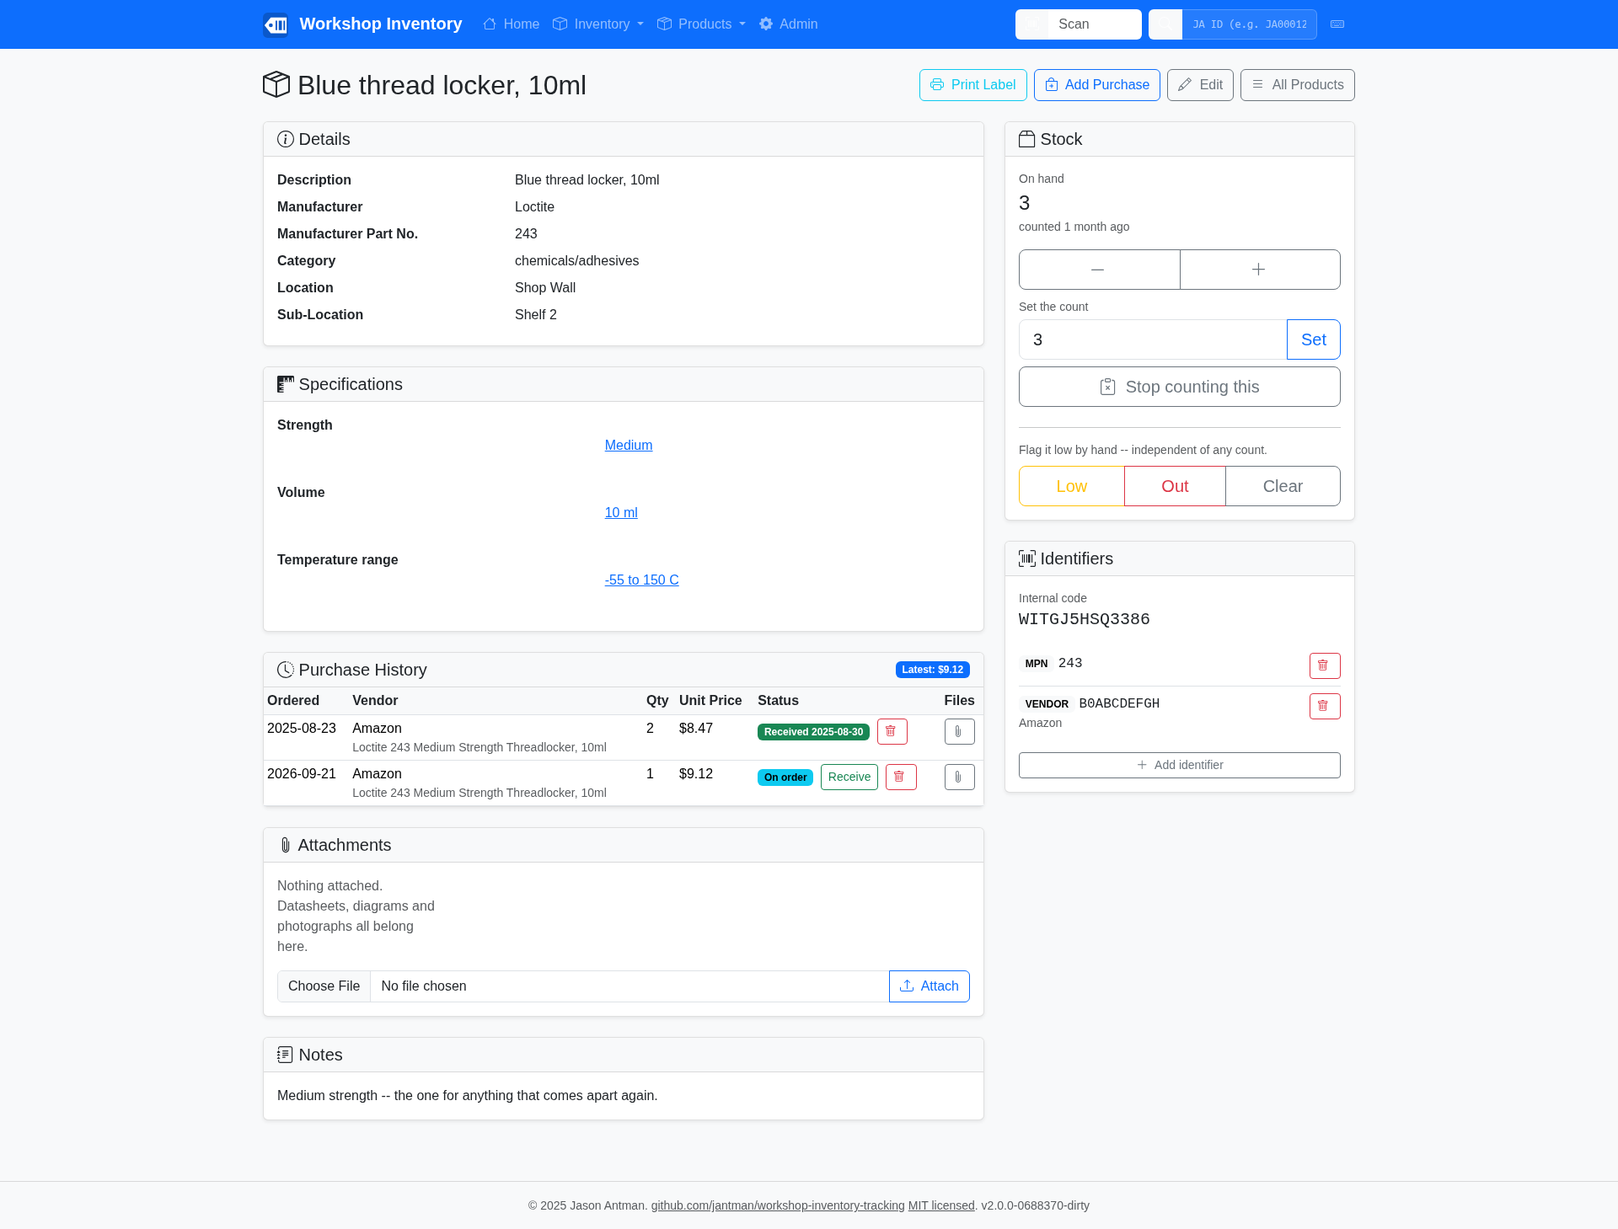
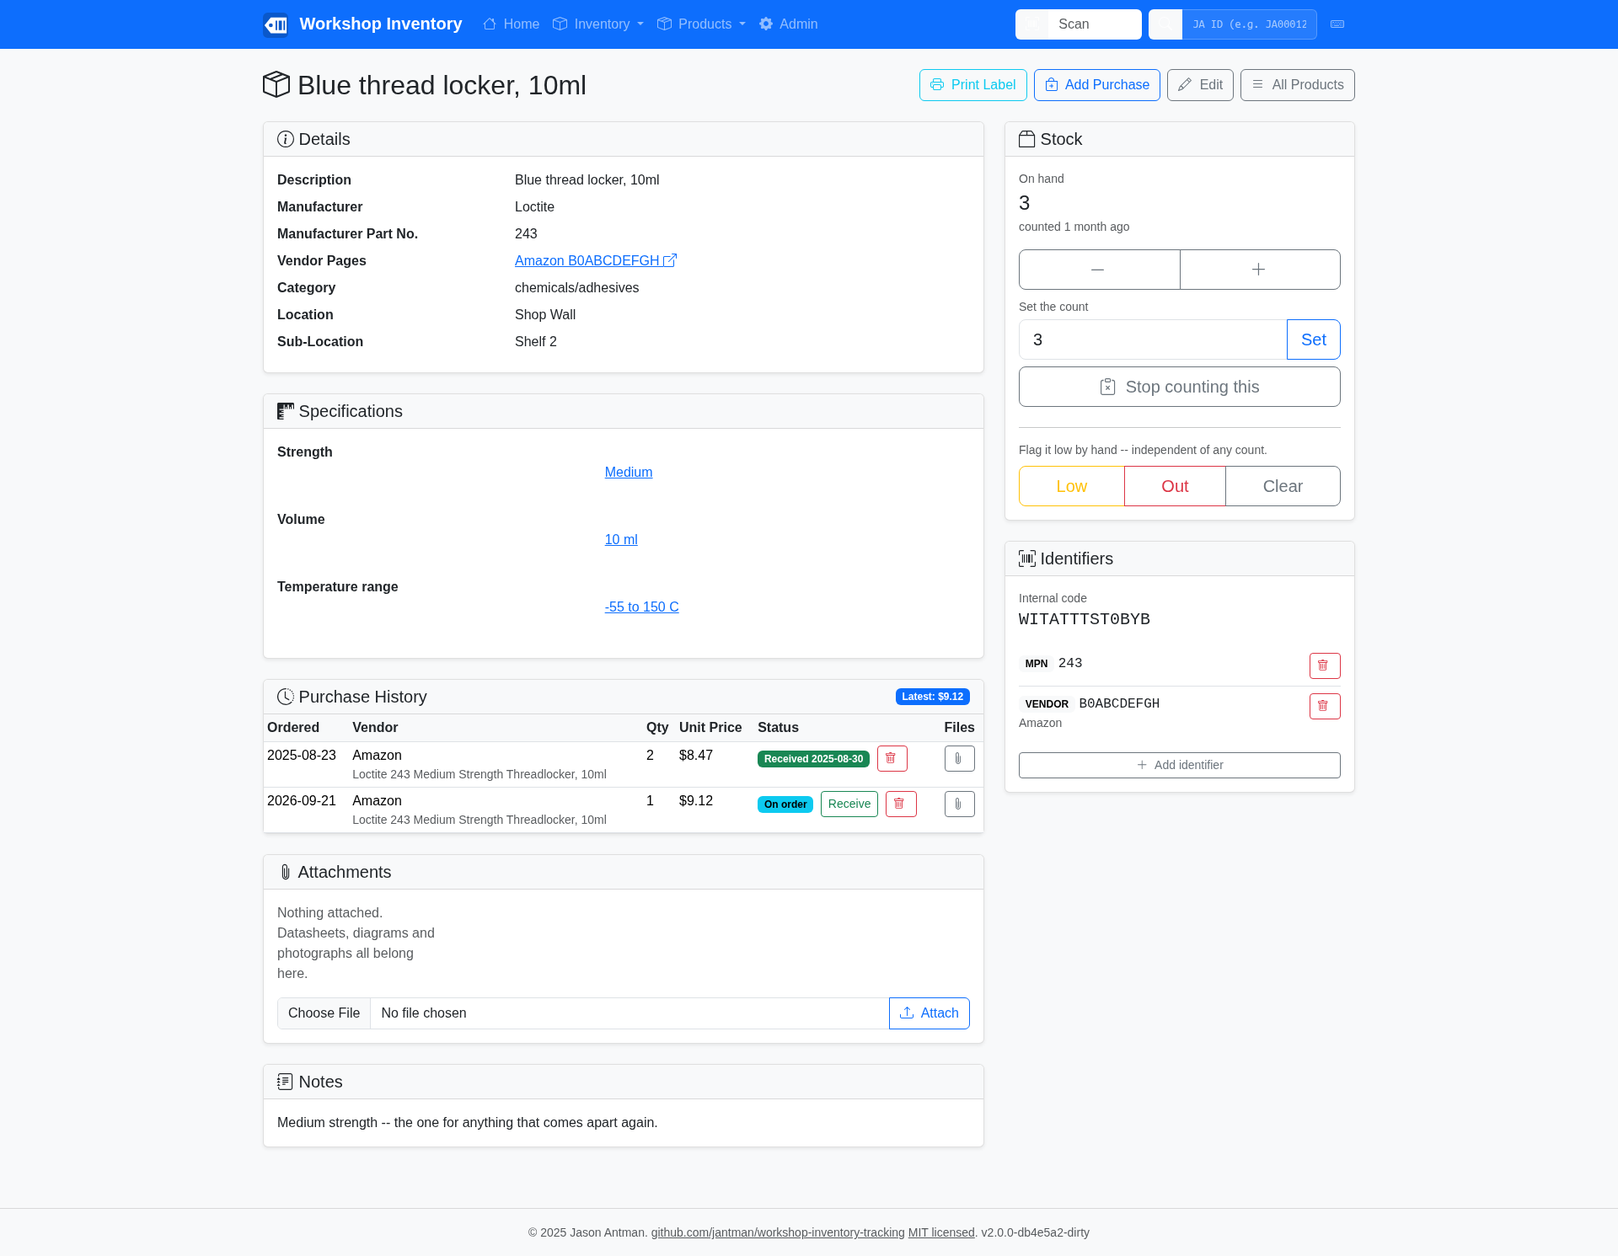
feat(054): link products to their vendor pages from the Details panel (#180)
The product page's Details panel gains a Vendor Pages row: one link per
Amazon, McMaster-Carr or DigiKey identifier the product carries, opening
in a new tab. Amazon and McMaster reuse the listing-address builders the
order flows already had; DigiKey links to its keyword search, which
redirects to the part, because its product address is never stored.

Either vendor-scoped identifier type links. McMaster part numbers were
VENDOR rows before 049 and DISTRIBUTOR since, and a DigiKey part captured
from its product page is VENDOR -- keying on the issue's types alone would
silently skip real products. The same value under both is one link.

Identifier values are now percent-encoded in all three builders, so a
hand-typed '/', '#' or space cannot send a link to the wrong page. Real
ASINs and part numbers are unchanged by it.

DigiKey's builder is deliberately not registered as the order vendor's
listing_url: that field's presence switches on the 044 details checklist.

Claude-Session: https://claude.ai/code/session_019doEcjtmYF93C6NDoHYRft

diff --git a/app/templates/product/detail.html b/app/templates/product/detail.html
@@ -82,6 +82,17 @@
                     <dd class="col-sm-8" id="product-mpn">{{ product.manufacturer_part_number }}</dd>
                     {% endif %}
 
+                    {% if vendor_links %}
+                    <dt class="col-sm-4">Vendor Pages</dt>
+                    <dd class="col-sm-8" id="product-vendor-links">
+                        {% for vendor, value, url in vendor_links %}
+                        <a class="vendor-link me-3 text-nowrap" href="{{ url }}" target="_blank"
+                           rel="noopener" data-vendor="{{ vendor }}">{{ vendor }} {{ value }}
+                            <i class="bi bi-box-arrow-up-right"></i></a>
+                        {% endfor %}
+                    </dd>
+                    {% endif %}
+
                     {% if product.category_path %}
                     <dt class="col-sm-4">Category</dt>
                     <dd class="col-sm-8" id="product-category">{{ product.category_path }}</dd>

diff --git a/tests/unit/test_vendor_page_links.py b/tests/unit/test_vendor_page_links.py
@@ -1,0 +1,119 @@
+"""
+Vendor links in the product page's Details panel (054, issue #180).
+
+``vendor_page_links`` turns a product's vendor-scoped identifiers into links to
+Amazon, McMaster-Carr and DigiKey; the product page renders them.
+"""
+
+from types import SimpleNamespace
+
+import pytest
+
+from app.catalog_service import CatalogService, vendor_page_links
+
+
+def ident(id_type, value, vendor=''):
+    return SimpleNamespace(id_type=id_type, value=value, vendor=vendor)
+
+
+@pytest.fixture
+def catalog(test_storage):
+    return CatalogService(test_storage)
+
+
+class TestVendorPageLinks:
+
+    @pytest.mark.parametrize('vendor, id_type, value, url', [
+        ('Amazon', 'VENDOR', 'B0EXAMPLE1', 'https://www.amazon.com/dp/B0EXAMPLE1'),
+        ('McMaster-Carr', 'DISTRIBUTOR', '91251A540', 'https://www.mcmaster.com/91251A540/'),
+        ('DigiKey', 'DISTRIBUTOR', '296-1395-5-ND',
+         'https://www.digikey.com/en/products/result?keywords=296-1395-5-ND'),
+    ])
+    def test_each_vendor_links_to_the_address_in_the_issue(self, vendor, id_type, value, url):
+        """FR-001, FR-002"""
+        assert vendor_page_links([ident(id_type, value, vendor)]) == [(vendor, value, url)]
+
+    @pytest.mark.parametrize('vendor', ['Amazon', 'McMaster-Carr', 'DigiKey'])
+    @pytest.mark.parametrize('id_type', ['VENDOR', 'DISTRIBUTOR'])
+    def test_either_vendor_scoped_type_links(self, vendor, id_type):
+        """FR-003: legacy McMaster rows are VENDOR; page-captured DigiKey rows are too."""
+        assert len(vendor_page_links([ident(id_type, 'X1', vendor)])) == 1
+
+    def test_one_value_under_both_types_is_one_link(self):
+        """FR-003"""
+        links = vendor_page_links([
+            ident('VENDOR', '91251A540', 'McMaster-Carr'),
+            ident('DISTRIBUTOR', '91251A540', 'McMaster-Carr'),
+        ])
+        assert links == [('McMaster-Carr', '91251A540', 'https://www.mcmaster.com/91251A540/')]
+
+    def test_the_value_is_encoded(self):
+        """FR-006: a '/', '#' or space must not re-route the address."""
+        [(_, _, amazon)] = vendor_page_links([ident('VENDOR', 'A/B#C D', 'Amazon')])
+        [(_, _, digikey)] = vendor_page_links([ident('DISTRIBUTOR', 'X&Y?Z', 'DigiKey')])
+
+        assert amazon == 'https://www.amazon.com/dp/A%2FB%23C%20D'
+        assert digikey == 'https://www.digikey.com/en/products/result?keywords=X%26Y%3FZ'
+
+    @pytest.mark.parametrize('identifier', [
+        ident('MPN', 'LM358N'),
+        ident('GTIN', '00012345678905'),
+        ident('VENDOR', '12345', 'Mouser'),
+        ident('DISTRIBUTOR', '296-1395-5-ND', 'Digi-Key'),
+        ident('INTERNAL', 'W0000000001'),
+    ])
+    def test_nothing_else_links(self, identifier):
+        """FR-007"""
+        assert vendor_page_links([identifier]) == []
+
+    def test_no_identifiers(self):
+        assert vendor_page_links([]) == []
+
+    def test_several_vendors_link_to_each_in_order(self):
+        """US2"""
+        links = vendor_page_links([
+            ident('DISTRIBUTOR', '91251A540', 'McMaster-Carr'),
+            ident('DISTRIBUTOR', '296-1395-5-ND', 'DigiKey'),
+        ])
+        assert [(vendor, value) for vendor, value, _ in links] == [
+            ('DigiKey', '296-1395-5-ND'),
+            ('McMaster-Carr', '91251A540'),
+        ]
+
+    def test_two_ids_for_one_vendor_are_two_links(self):
+        """US2, FR-004"""
+        links = vendor_page_links([
+            ident('VENDOR', 'B0SECOND02', 'Amazon'),
+            ident('VENDOR', 'B0FIRST001', 'Amazon'),
+        ])
+        assert [value for _, value, _ in links] == ['B0FIRST001', 'B0SECOND02']
+
+
+class TestProductPage:
+
+    def test_the_details_panel_links_to_the_vendor(self, catalog, client):
+        """FR-001, FR-005"""
+        product = catalog.create_product(
+            description='Threadlocker',
+            identifiers=[{'id_type': 'VENDOR', 'value': 'B0EXAMPLE1', 'vendor': 'Amazon'}],
+        )
+
+        html = client.get(f'/products/{product.id}').get_data(as_text=True)
+
+        assert 'id="product-vendor-links"' in html
+        assert 'href="https://www.amazon.com/dp/B0EXAMPLE1"' in html
+        assert 'target="_blank"' in html
+        assert 'rel="noopener" data-vendor="Amazon"' in html
+
+    def test_a_product_with_nothing_to_link_has_no_row(self, catalog, client):
+        """FR-007"""
+        product = catalog.create_product(
+            description='Op amp',
+            identifiers=[{'id_type': 'MPN', 'value': 'LM358N'}],
+        )
+
+        html = client.get(f'/products/{product.id}').get_data(as_text=True)
+
+        assert 'id="product-description"' in html
+        assert 'product-vendor-links' not in html
+        assert 'Vendor Pages' not in html

diff --git a/app/catalog_service.py b/app/catalog_service.py
@@ -16,7 +16,8 @@ from contextlib import contextmanager
 from dataclasses import replace
 from datetime import datetime, timedelta
 from decimal import Decimal, InvalidOperation
-from typing import Any, Dict, List, Optional, Set
+from typing import Any, Dict, Iterable, List, Optional, Set, Tuple
+from urllib.parse import quote
 
 from sqlalchemy import and_, case, create_engine, func, or_
 from sqlalchemy.orm import selectinload, sessionmaker
@@ -5340,7 +5341,7 @@ def _mcmaster_listing_url(part_number: str) -> str:
     That is why a McMaster order gets the details checklist but not Amazon's
     automatic per-line listing read (044 US4).
     """
-    return f'https://www.mcmaster.com/{part_number}/'
+    return f'https://www.mcmaster.com/{quote(part_number, safe="")}/'
 
 
 DIGIKEY_ORDER_VENDOR = order_vendors.register(order_vendors.OrderVendor(
@@ -5509,7 +5510,7 @@ def _amazon_listing_url(asin: str) -> str:
     purchase's ``listing_url`` is the *order* page (``_amazon_line_fields``), not
     the listing, and linking to it would send the operator to the wrong place.
     """
-    return f'https://www.amazon.com/dp/{asin}'
+    return f'https://www.amazon.com/dp/{quote(asin, safe="")}'
 
 
 AMAZON_ORDER_VENDOR = order_vendors.register(order_vendors.OrderVendor(
@@ -5541,3 +5542,46 @@ AMAZON_ORDER_VENDOR = order_vendors.register(order_vendors.OrderVendor(
     carries_payload=True,
     listing_url=_amazon_listing_url,
 ))
+
+
+def _digikey_search_url(part_number: str) -> str:
+    """DigiKey's keyword search for a part number, which redirects to the part's page.
+
+    Not registered as the DigiKey order vendor's ``listing_url``: that field's
+    presence puts the details checklist on the order screen (044 US3), and a
+    DigiKey order arrives with its details already filled in. DigiKey's own
+    product address is returned by its lookup but never stored, so the search is
+    what can be built from an identifier alone (054 research R4).
+    """
+    return f'https://www.digikey.com/en/products/result?keywords={quote(part_number, safe="")}'
+
+
+# The vendor page each supported vendor's item id leads to, for the product
+# page's Details panel (054). Keyed by the vendor names identifiers are filed
+# under; a legacy spelling such as 'Digi-Key' is deliberately not a key.
+VENDOR_PAGE_URLS = {
+    AMAZON_VENDOR: _amazon_listing_url,
+    MCMASTER_VENDOR: _mcmaster_listing_url,
+    DIGIKEY_VENDOR: _digikey_search_url,
+}
+
+
+def vendor_page_links(identifiers: Iterable[ProductIdentifier]) -> List[Tuple[str, str, str]]:
+    """``(vendor, value, url)`` for each supported vendor item id a product carries.
+
+    **Either vendor-scoped type counts.** McMaster part numbers were recorded as
+    ``VENDOR`` before 049 and ``DISTRIBUTOR`` since, and a DigiKey part captured
+    from its product page is ``VENDOR`` while one from an order is
+    ``DISTRIBUTOR``. The vendor scope says whose id it is; the type does not, so
+    the same value under both types is one link, not two.
+    """
+    scoped = {id_type.value for id_type in VENDOR_SCOPED_TYPES}
+    links = {
+        (identifier.vendor, identifier.value)
+        for identifier in identifiers
+        if identifier.id_type in scoped and identifier.vendor in VENDOR_PAGE_URLS
+    }
+    return [
+        (vendor, value, VENDOR_PAGE_URLS[vendor](value))
+        for vendor, value in sorted(links)
+    ]

diff --git a/tests/e2e/test_product_vendor_links.py b/tests/e2e/test_product_vendor_links.py
@@ -1,0 +1,55 @@
+"""E2E: vendor links in the product page's Details panel (feature 054, issue #180).
+
+The page is server-rendered, so ``expect()`` on the Details panel is the whole
+wait. Products are seeded through the service; the form is not under test.
+"""
+
+import pytest
+from playwright.sync_api import expect
+
+
+@pytest.mark.e2e
+def test_the_details_panel_links_to_each_vendor(page, live_server):
+    """US1, US2: one link per vendor, opening in a new tab.
+
+    McMaster's part number is seeded as VENDOR, the type captures wrote before
+    049, so the legacy shape is what is proved to link.
+    """
+    [product] = live_server.add_test_products([{
+        'description': 'Socket head cap screw, M3 x 10',
+        'identifiers': [
+            {'id_type': 'VENDOR', 'value': 'B0EXAMPLE1', 'vendor': 'Amazon'},
+            {'id_type': 'VENDOR', 'value': '91251A540', 'vendor': 'McMaster-Carr'},
+            {'id_type': 'DISTRIBUTOR', 'value': '296-1395-5-ND', 'vendor': 'DigiKey'},
+        ],
+    }])
+
+    page.goto(f"{live_server.url}/products/{product.id}")
+
+    links = page.locator("#product-vendor-links .vendor-link")
+    expect(links).to_have_count(3)
+    for vendor, href in [
+        ('Amazon', 'https://www.amazon.com/dp/B0EXAMPLE1'),
+        ('McMaster-Carr', 'https://www.mcmaster.com/91251A540/'),
+        ('DigiKey', 'https://www.digikey.com/en/products/result?keywords=296-1395-5-ND'),
+    ]:
+        link = page.locator(f'.vendor-link[data-vendor="{vendor}"]')
+        expect(link).to_have_attribute('href', href)
+        expect(link).to_have_attribute('target', '_blank')
+        expect(link).to_have_attribute('rel', 'noopener')
+
+
+@pytest.mark.e2e
+def test_a_product_with_nothing_to_link_has_no_row(page, live_server):
+    """FR-007"""
+    [product] = live_server.add_test_products([{
+        'description': 'Op amp, dual',
+        'identifiers': [{'id_type': 'MPN', 'value': 'LM358N'}],
+    }])
+
+    page.goto(f"{live_server.url}/products/{product.id}")
+
+    # Establish the panel first, so the absence below is not a page that has
+    # not rendered.
+    expect(page.locator("#product-description")).to_have_text('Op amp, dual')
+    expect(page.locator("#product-vendor-links")).to_have_count(0)

diff --git a/app/product/routes.py b/app/product/routes.py
@@ -28,6 +28,7 @@ from app.catalog_service import (
     MCMASTER_VENDOR,
     VENDOR_SCOPED_TYPES,
     CatalogService,
+    vendor_page_links,
 )
 from app.services import order_vendors
 from app.exceptions import (
@@ -385,6 +386,7 @@ def product_detail(product_id):
         purchase_attachments=purchase_attachments,
         identifier_types=OPERATOR_IDENTIFIER_TYPES,
         listing_link=_missing_details_link(product),
+        vendor_links=vendor_page_links(product.identifiers),
     )
 
 

diff --git a/specs/054-product-vendor-links/tasks.md b/specs/054-product-vendor-links/tasks.md
@@ -14,8 +14,8 @@ None — existing project, no new dependency.
 
 ## Phase 2: Foundational
 
-- [ ] T001 In `app/catalog_service.py`, percent-encode the value (`urllib.parse.quote(value, safe='')`) in the existing `_mcmaster_listing_url` and `_amazon_listing_url`, add `_digikey_search_url(part_number)` returning `https://www.digikey.com/en/products/result?keywords=<encoded>`, and add module-level `VENDOR_PAGE_URLS = {AMAZON_VENDOR: _amazon_listing_url, MCMASTER_VENDOR: _mcmaster_listing_url, DIGIKEY_VENDOR: _digikey_search_url}` after the three builders are defined (research R2, R3). Do **not** register DigiKey's builder as `OrderVendor.listing_url`.
-- [ ] T002 In `app/catalog_service.py`, add public `vendor_page_links(identifiers) -> List[Tuple[str, str, str]]`: for each identifier whose `id_type` is `VENDOR` or `DISTRIBUTOR` and whose `vendor` is a key of `VENDOR_PAGE_URLS`, yield `(vendor, value, url)`, de-duplicated on `(vendor, value)` and sorted (data-model.md).
+- [X] T001 In `app/catalog_service.py`, percent-encode the value (`urllib.parse.quote(value, safe='')`) in the existing `_mcmaster_listing_url` and `_amazon_listing_url`, add `_digikey_search_url(part_number)` returning `https://www.digikey.com/en/products/result?keywords=<encoded>`, and add module-level `VENDOR_PAGE_URLS = {AMAZON_VENDOR: _amazon_listing_url, MCMASTER_VENDOR: _mcmaster_listing_url, DIGIKEY_VENDOR: _digikey_search_url}` after the three builders are defined (research R2, R3). Do **not** register DigiKey's builder as `OrderVendor.listing_url`.
+- [X] T002 In `app/catalog_service.py`, add public `vendor_page_links(identifiers) -> List[Tuple[str, str, str]]`: for each identifier whose `id_type` is `VENDOR` or `DISTRIBUTOR` and whose `vendor` is a key of `VENDOR_PAGE_URLS`, yield `(vendor, value, url)`, de-duplicated on `(vendor, value)` and sorted (data-model.md).
 
 **Checkpoint**: the function is callable and unit-testable on its own.
 
@@ -25,11 +25,11 @@ None — existing project, no new dependency.
 
 **Independent Test**: A seeded product per vendor shows one correct link that opens in a new tab.
 
-- [ ] T003 [P] [US1] Unit tests in `tests/unit/test_vendor_page_links.py` for `vendor_page_links`: each vendor's exact address from contracts/details-panel.md; `VENDOR` and `DISTRIBUTOR` both produce a link; the same value under both types gives one link; encoding of `/`, `#` and space; MPN/GTIN, unsupported vendor (`Mouser`) and legacy `Digi-Key` give nothing; empty input gives `[]`.
-- [ ] T004 [US1] In `app/product/routes.py` `product_detail`, pass `vendor_links=vendor_page_links(product.identifiers)` to the template (import from `app.catalog_service`).
-- [ ] T005 [US1] In `app/templates/product/detail.html`, add the `Vendor Pages` `<dt>`/`<dd id="product-vendor-links">` row after Manufacturer Part No., rendered only when `vendor_links` is non-empty, each link `class="vendor-link"`, `data-vendor`, `target="_blank" rel="noopener"`, text `{vendor} {value}` plus `bi-box-arrow-up-right` icon (contracts/details-panel.md).
-- [ ] T006 [US1] Route tests in `tests/unit/test_vendor_page_links.py` using the `client` fixture: a product with an Amazon `VENDOR` identifier renders `#product-vendor-links` with the address, `target="_blank"` and `rel="noopener"`; a product with only an MPN renders no `product-vendor-links`.
-- [ ] T007 [P] [US1] E2E test in `tests/e2e/test_product_vendor_links.py` (marker `e2e`), seeding via `live_server.add_test_data` one product per vendor (McMaster as `VENDOR` to cover the legacy type), then `expect()` each `.vendor-link[data-vendor=...]` to have the right `href`, `target` and `rel`; plus one product with only an MPN asserting `#product-vendor-links` has count 0 **after** `expect()` establishes `#product-description` (CLAUDE.md, negative assertion rule).
+- [X] T003 [P] [US1] Unit tests in `tests/unit/test_vendor_page_links.py` for `vendor_page_links`: each vendor's exact address from contracts/details-panel.md; `VENDOR` and `DISTRIBUTOR` both produce a link; the same value under both types gives one link; encoding of `/`, `#` and space; MPN/GTIN, unsupported vendor (`Mouser`) and legacy `Digi-Key` give nothing; empty input gives `[]`.
+- [X] T004 [US1] In `app/product/routes.py` `product_detail`, pass `vendor_links=vendor_page_links(product.identifiers)` to the template (import from `app.catalog_service`).
+- [X] T005 [US1] In `app/templates/product/detail.html`, add the `Vendor Pages` `<dt>`/`<dd id="product-vendor-links">` row after Manufacturer Part No., rendered only when `vendor_links` is non-empty, each link `class="vendor-link"`, `data-vendor`, `target="_blank" rel="noopener"`, text `{vendor} {value}` plus `bi-box-arrow-up-right` icon (contracts/details-panel.md).
+- [X] T006 [US1] Route tests in `tests/unit/test_vendor_page_links.py` using the `client` fixture: a product with an Amazon `VENDOR` identifier renders `#product-vendor-links` with the address, `target="_blank"` and `rel="noopener"`; a product with only an MPN renders no `product-vendor-links`.
+- [X] T007 [P] [US1] E2E test in `tests/e2e/test_product_vendor_links.py` (marker `e2e`), seeding via `live_server.add_test_data` one product per vendor (McMaster as `VENDOR` to cover the legacy type), then `expect()` each `.vendor-link[data-vendor=...]` to have the right `href`, `target` and `rel`; plus one product with only an MPN asserting `#product-vendor-links` has count 0 **after** `expect()` establishes `#product-description` (CLAUDE.md, negative assertion rule).
 
 **Checkpoint**: US1 fully functional.
 
@@ -39,15 +39,15 @@ None — existing project, no new dependency.
 
 **Independent Test**: A product with DigiKey and McMaster-Carr identifiers shows both links.
 
-- [ ] T008 [US2] In `tests/unit/test_vendor_page_links.py`, add tests: a DigiKey plus a McMaster identifier yields two links in `(vendor, value)` order; two different Amazon ASINs yield two Amazon links. (Behaviour is delivered by T002; this pins it.)
+- [X] T008 [US2] In `tests/unit/test_vendor_page_links.py`, add tests: a DigiKey plus a McMaster identifier yields two links in `(vendor, value)` order; two different Amazon ASINs yield two Amazon links. (Behaviour is delivered by T002; this pins it.)
 
 ## Phase 5: Polish & Cross-Cutting
 
-- [ ] T009 [P] In `docs/user-manual.md`, under "The Product Catalog" after the product detail screenshot, add a short paragraph: the Details panel's **Vendor Pages** row links to Amazon, McMaster-Carr and DigiKey pages built from the product's identifiers (DigiKey's goes via its search, which redirects to the part). No history of why.
-- [ ] T010 Run `nox -s tests` (with the pyenv 3.13 PATH prefix, main-checkout venv) and fix failures, including any existing test asserting an unencoded listing address.
-- [ ] T011 Regenerate screenshots with `nox -s screenshots_headless`; commit only `docs/images/screenshots/user-manual/product_detail.png` (and any other file whose change is caused by this feature), revert the rest; run `nox -s screenshots_verify`.
+- [X] T009 [P] In `docs/user-manual.md`, under "The Product Catalog" after the product detail screenshot, add a short paragraph: the Details panel's **Vendor Pages** row links to Amazon, McMaster-Carr and DigiKey pages built from the product's identifiers (DigiKey's goes via its search, which redirects to the part). No history of why.
+- [X] T010 Run `nox -s tests` (with the pyenv 3.13 PATH prefix, main-checkout venv) and fix failures, including any existing test asserting an unencoded listing address.
+- [X] T011 Regenerate screenshots with `nox -s screenshots_headless`; commit only `docs/images/screenshots/user-manual/product_detail.png` (and any other file whose change is caused by this feature), revert the rest; run `nox -s screenshots_verify`.
 - [ ] T012 Run `nox -s e2e` detached (≥20 min) and confirm it passes and leaves the tree clean.
-- [ ] T013 Verify spelling rule: `grep -ric "catalogue" README.md docs/ app/ tests/` returns nothing.
+- [X] T013 Verify spelling rule: `grep -ric "catalogue" README.md docs/ app/ tests/` returns nothing.
 
 ## Dependencies & Execution Order
 

diff --git a/docs/user-manual.md b/docs/user-manual.md
@@ -904,6 +904,13 @@ half touches the inventory tables.
 ![Product Detail](images/screenshots/user-manual/product_detail.png)
 *A product page: what it is, what it cost, where it came from, and how many are on hand*
 
+The **Vendor Pages** row in a product's Details panel links straight to the item
+at Amazon, McMaster-Carr or DigiKey, built from the product's identifiers for
+those vendors: an ASIN, a McMaster part number, a DigiKey part number. Each
+opens in a new tab. DigiKey's link is a search for the part number, which
+DigiKey redirects to the part's own page. A product with no identifier for one
+of these vendors has no Vendor Pages row.
+
 ## Adding a Product
 
 **Products → Add Product**, or scan something the catalog does not recognize
